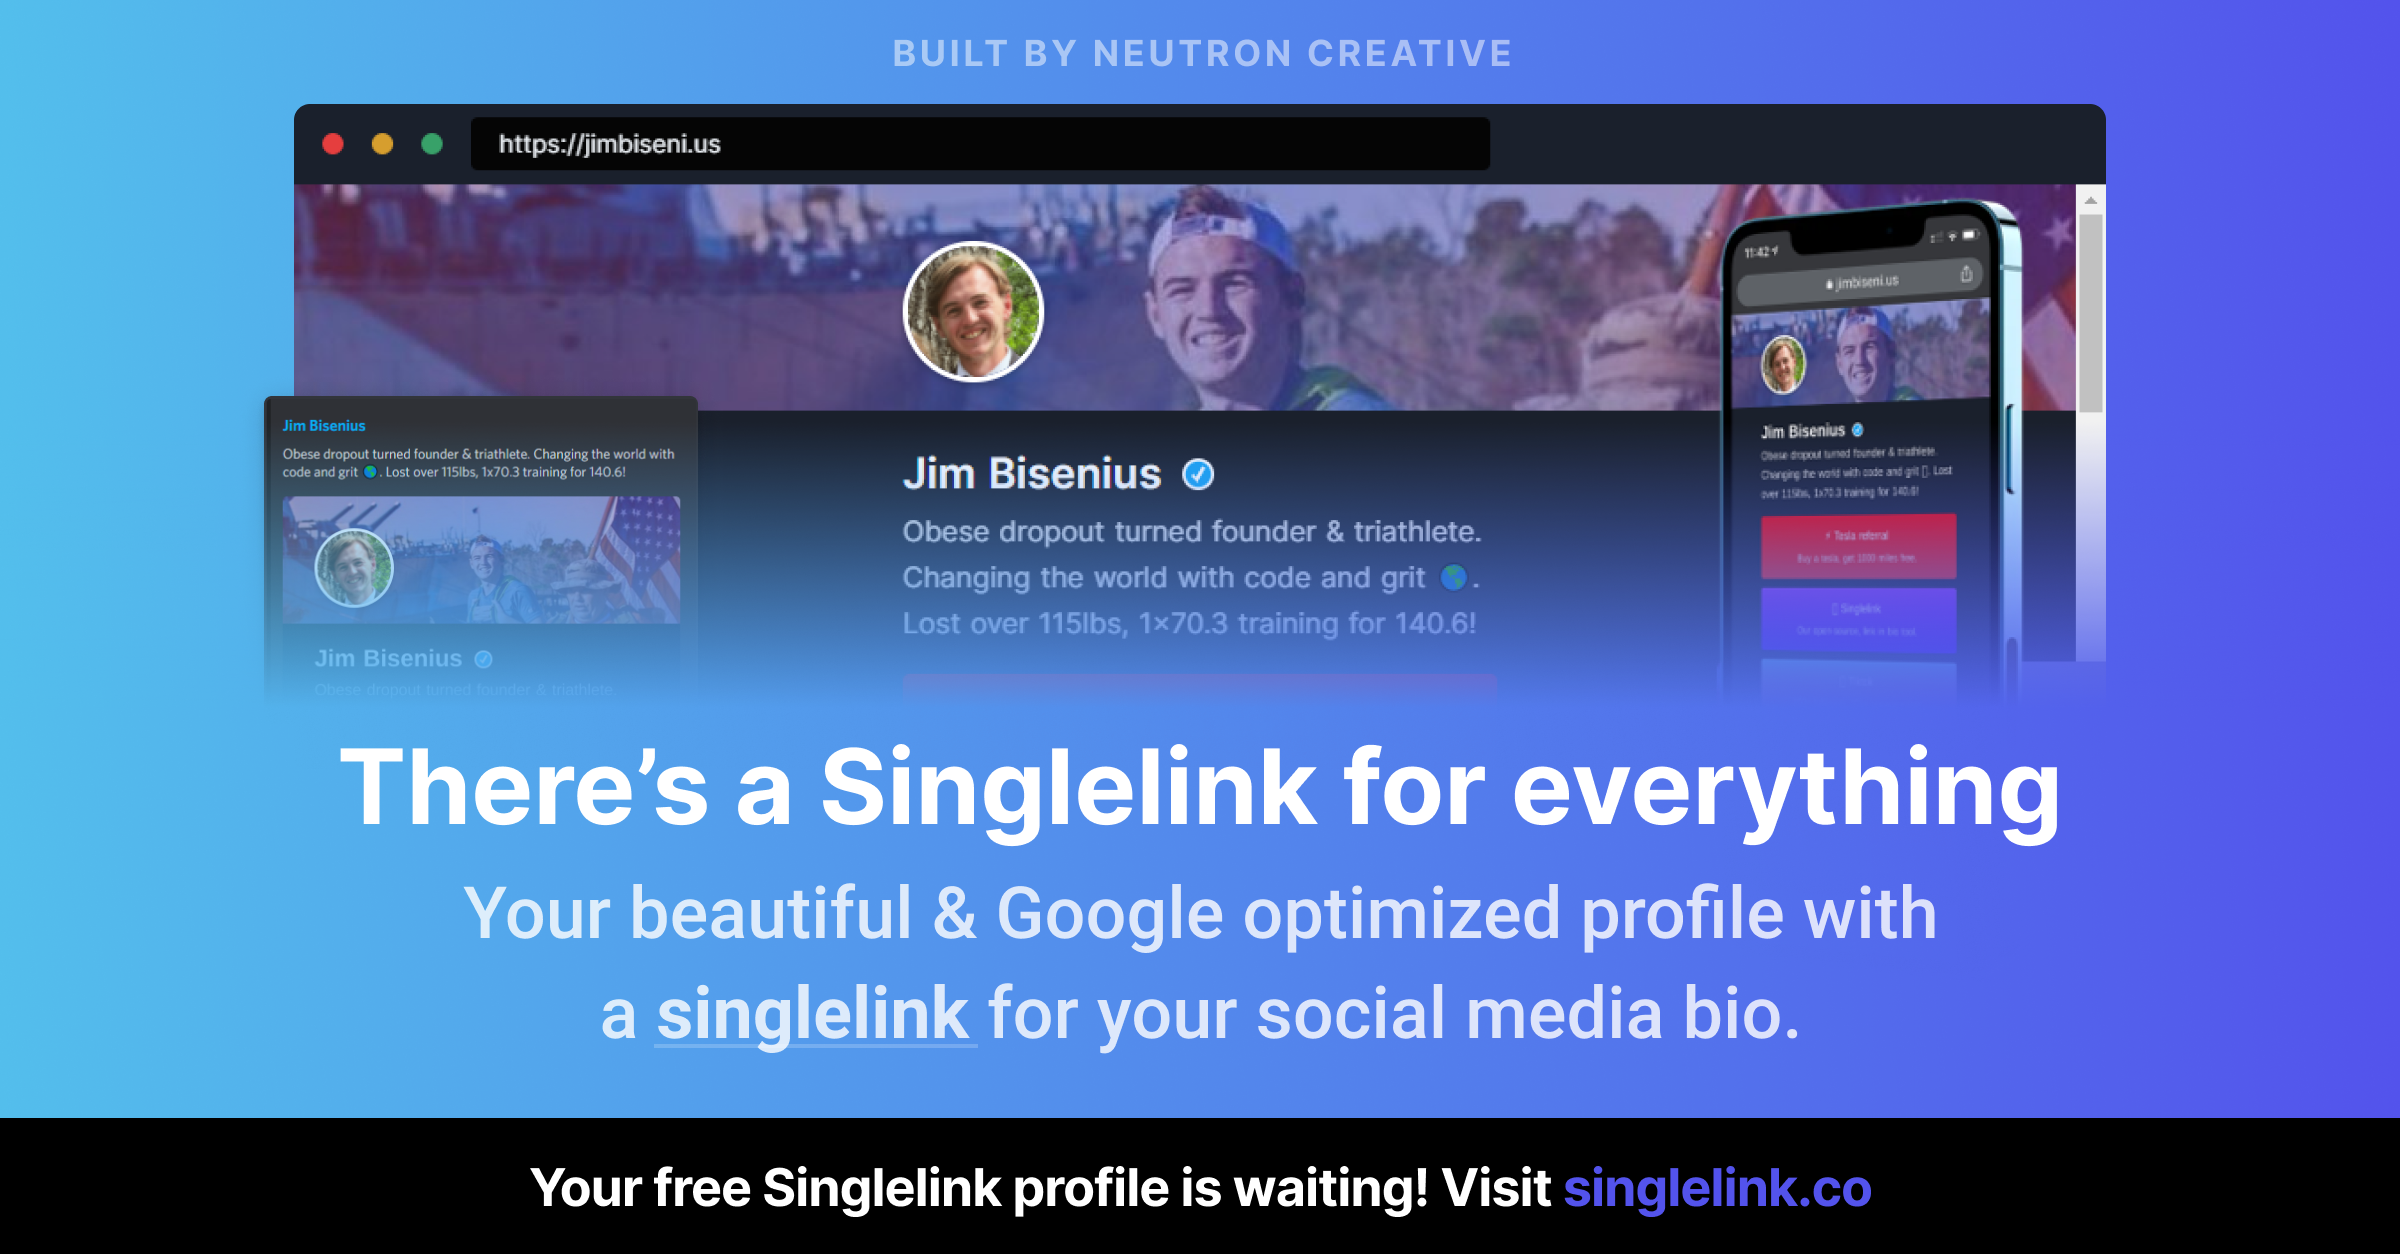
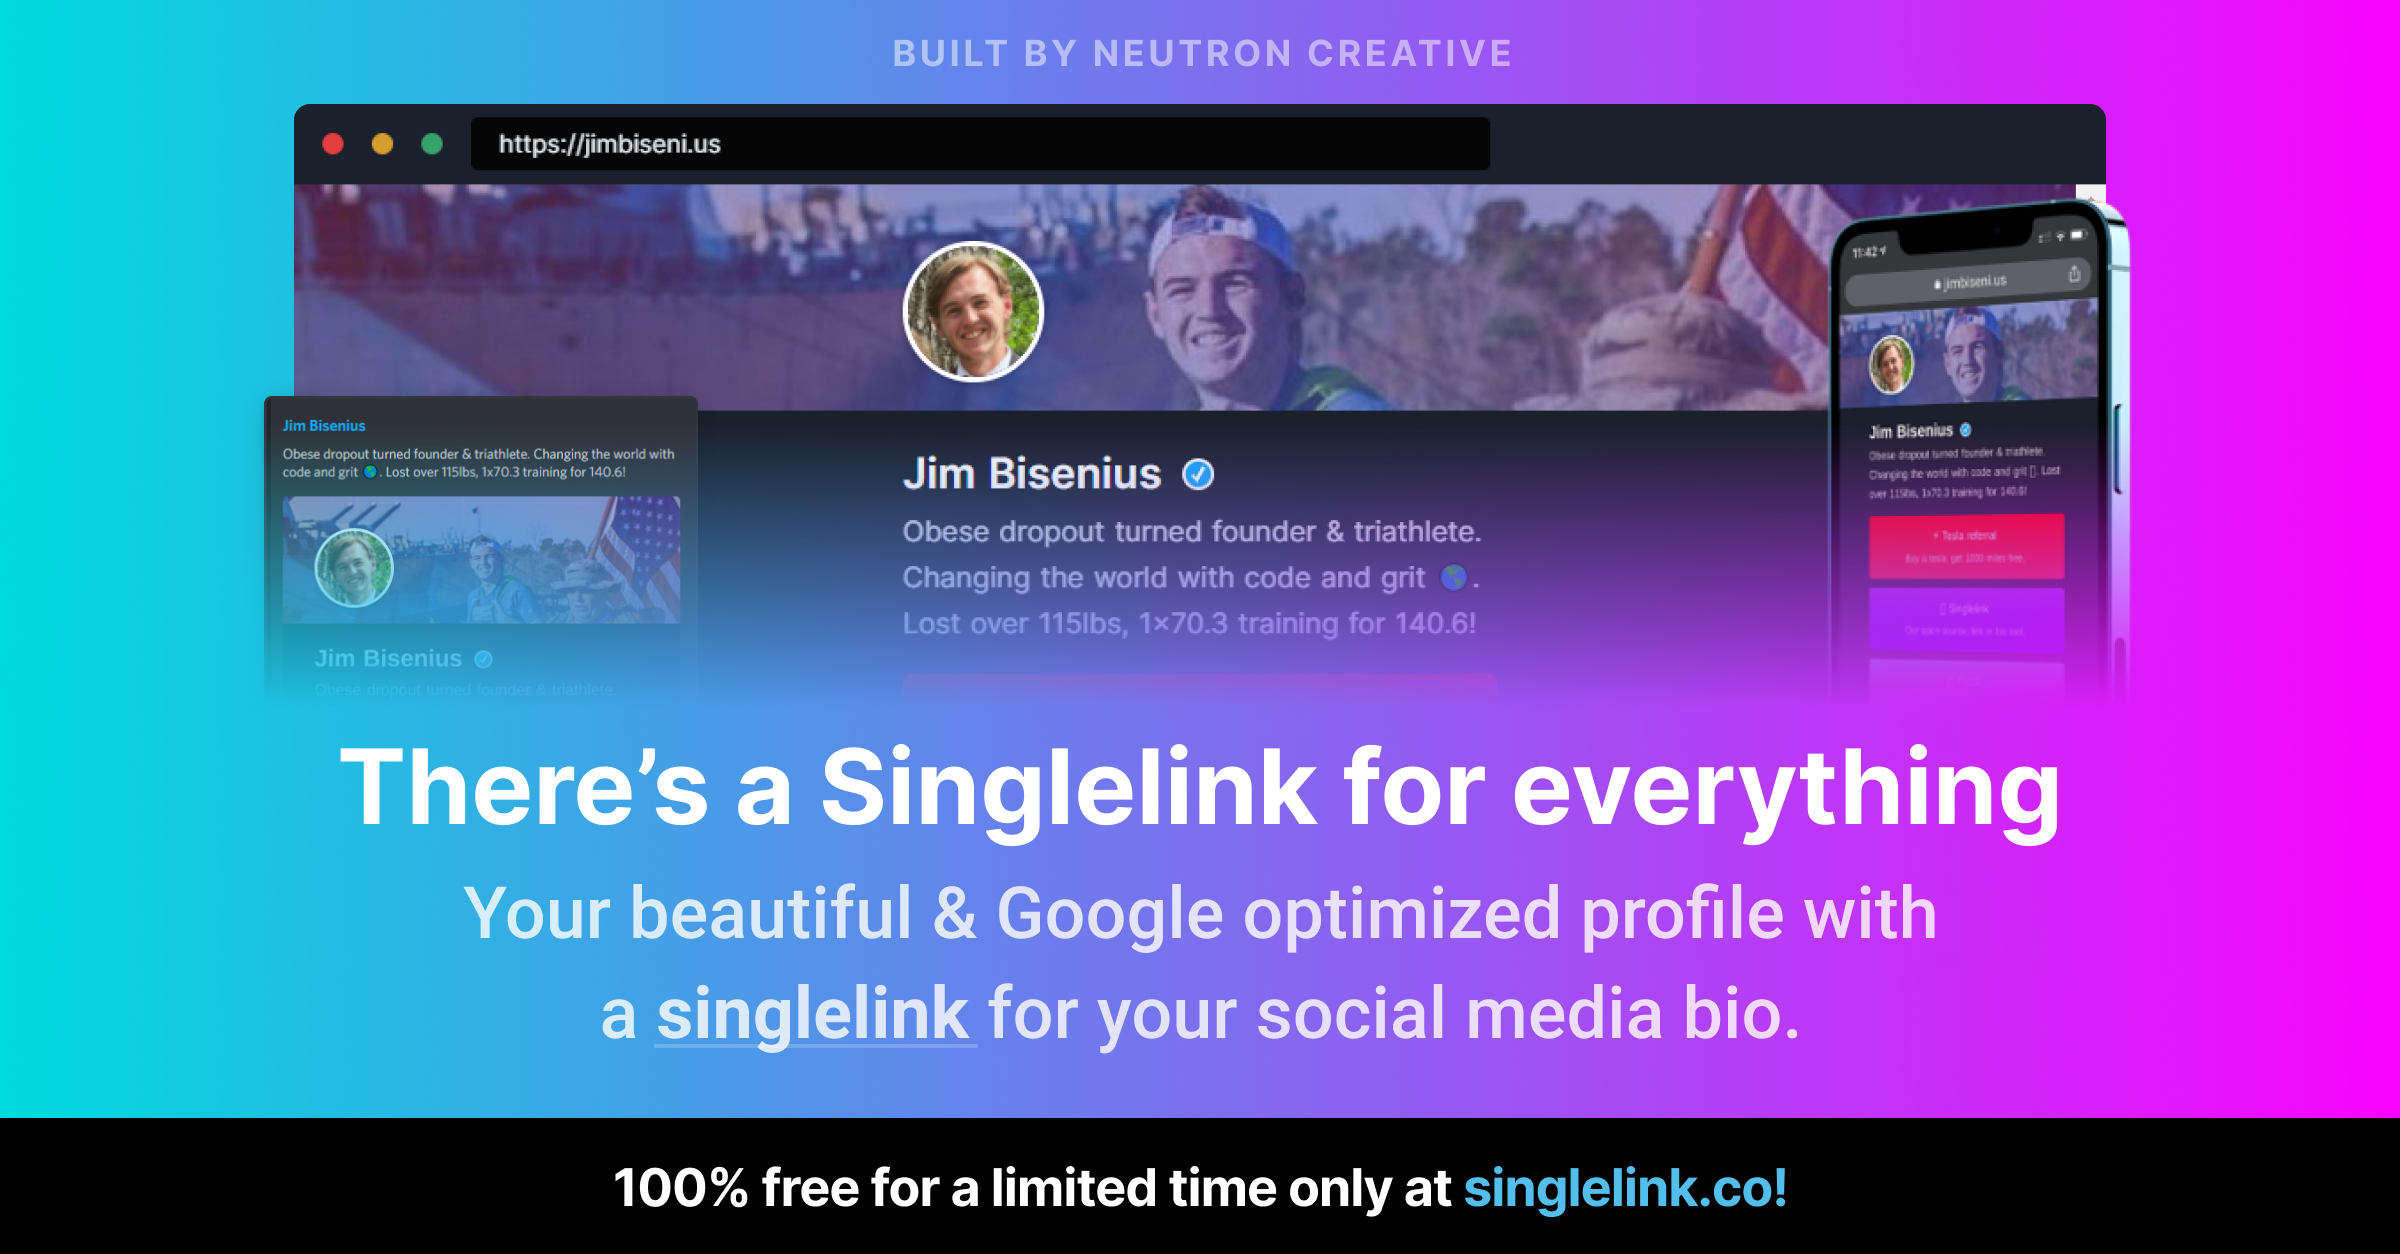
Update OG image

diff --git a/www/nuxt.config.js b/www/nuxt.config.js
@@ -20,10 +20,10 @@ export default {
       { charset: 'utf-8' },
       { name: 'viewport', content: 'width=device-width, initial-scale=1' },
       { hid: 'description', name: 'description', content: 'Your beautiful & SEO optimized profile with a Singlelink for your social media bio. Create your free profile in seconds!' },
-      { name: 'og:image', content: 'https://singlelink.co/open-graph-image.png' },
+      { name: 'og:image', content: 'https://singlelink.co/open-graph-image-v2.png' },
       { name: 'og:title', content: 'Singlelink - There\'s a single link for everything 🔗🔥' },
       { name: 'og:description', content: 'Your beautiful & SEO optimized profile with a Singlelink for your social media bio. Create your free profile in seconds!'},
-      { name: 'twitter:image', content: 'https://singlelink.co/open-graph-image.png' },
+      { name: 'twitter:image', content: 'https://singlelink.co/open-graph-image-v2.png' },
       { name: 'twitter:title', content: 'Singlelink - There\'s a single link for everything 🔗🔥' },
       { name: 'twitter:description', content: 'Your beautiful & SEO optimized profile with a Singlelink for your social media bio. Create your free profile in seconds!'},
       { name: 'twitter:card', content: 'summary_large_image'},

diff --git a/www/layouts/default.vue b/www/layouts/default.vue
@@ -95,6 +95,9 @@
         <a href="https://status.singlelink.co">
           <li class="p-2 mr-2 hover:text-gray-800 cursor-pointer">Status</li>
         </a>
+        <a href="https://discord.com/invite/3pBM4Px">
+          <li class="p-2 mr-2 hover:text-gray-800 cursor-pointer">Support</li>
+        </a>
 		<a href="https://singlel.ink/analytics">
 			<li class="p-2 mr-2 hover:text-gray-800 cursor-pointer">Realtime Statistics</li>
 		</a>
